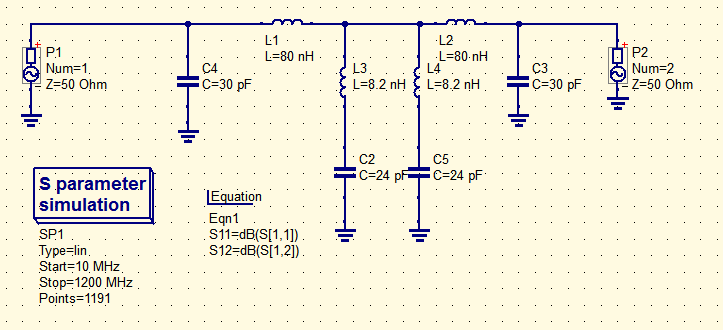
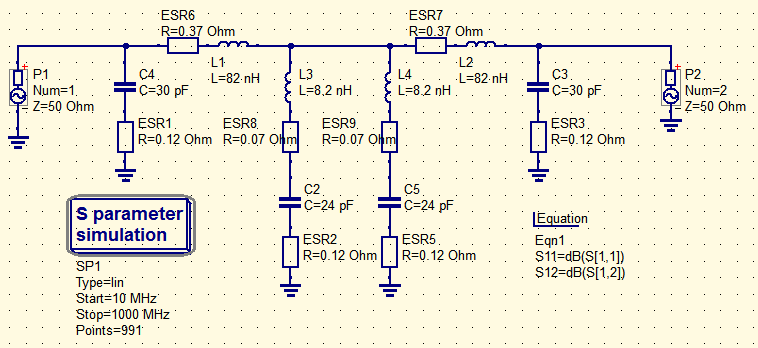
Filter simulation with ESR included

diff --git a/hw/rfpowerref.html b/hw/rfpowerref.html
@@ -32,7 +32,8 @@
   	The filter used to remove the oscillator's harmonics is a modified Chebyshev type 1. Initial values for the filter were computed using a cutoff
 	frequency of 130 MHz and a ripple of 0.01 dB. W1GHz then suggests adding an inductor in series with the central capacitor to create a notch
 	at the third harmonic. The values of this inductor and capacitor were tuned by hand to optimize the filter for passing only 120 MHz, and simulation
-	results (using <a href="http://qucs.sourceforge.net/">Qucs</a>) are pictured below.
+	results (using <a href="http://qucs.sourceforge.net/">Qucs</a>) are pictured below. ESR values were taken from datasheets of potential components
+	found on Mouser, and make a noticeable difference in the filter response.
   </p>
   <p style="text-align:center">
   	<img src="images/rfpowerref_filter_schematic.png">
